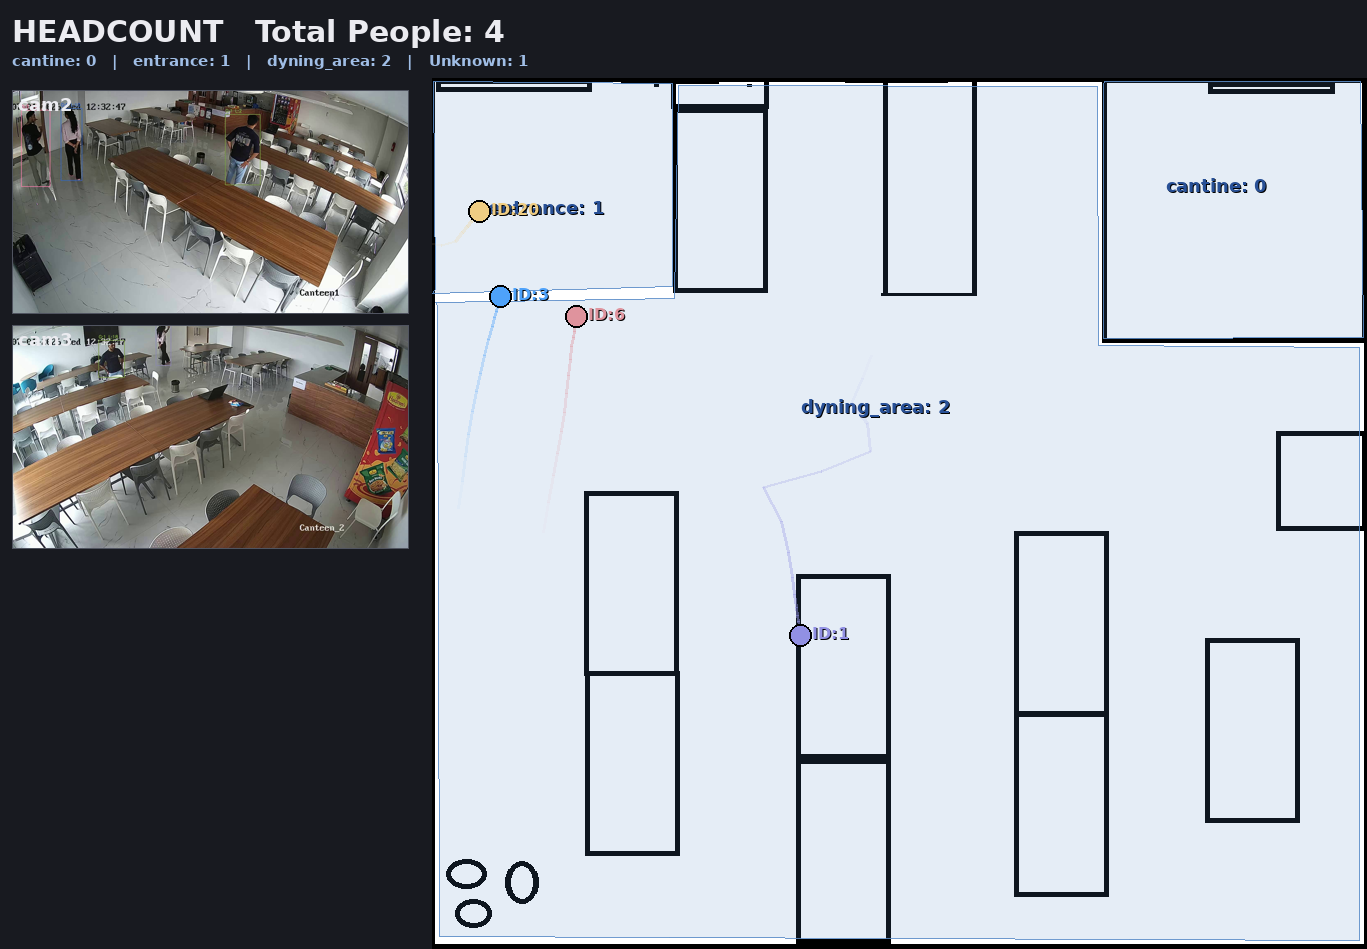
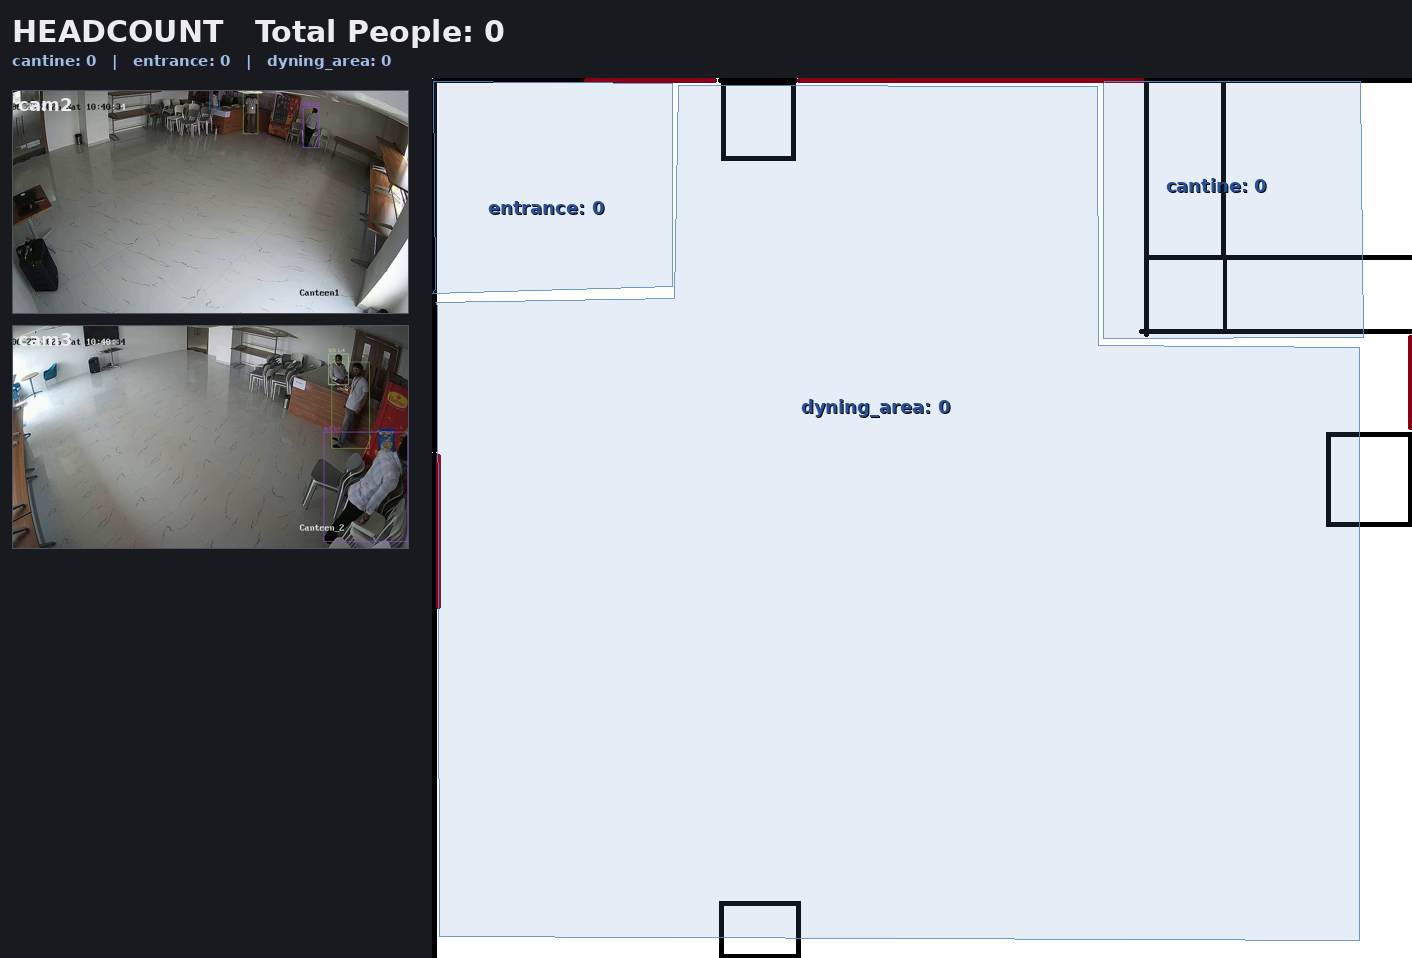
workeddd sat evn

diff --git a/workers/sct_worker.py b/workers/sct_worker.py
@@ -136,7 +136,7 @@ class SCTWorker:
             current_time = time.time() 
             self.update_global_id_cache()
 
-            results = self.model.track(frame, persist=True, tracker="botsort.yaml", conf=0.20, iou=0.65, imgsz=1024, classes=[0], verbose=False)
+            results = self.model.track(frame, persist=True, tracker="botsort.yaml", conf=0.3, iou=0.5, classes=[0], imgsz=1024 ,verbose=False)
 
             if results[0].boxes.id is not None:
                 boxes = results[0].boxes.xyxy.cpu().numpy()
